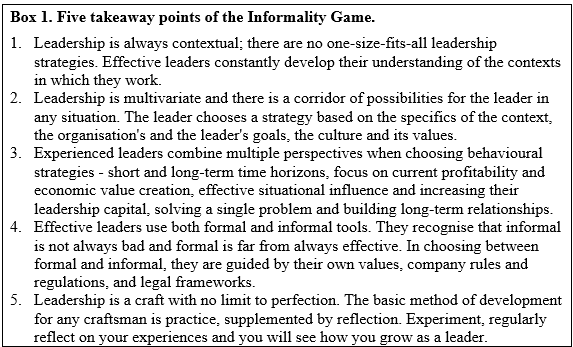
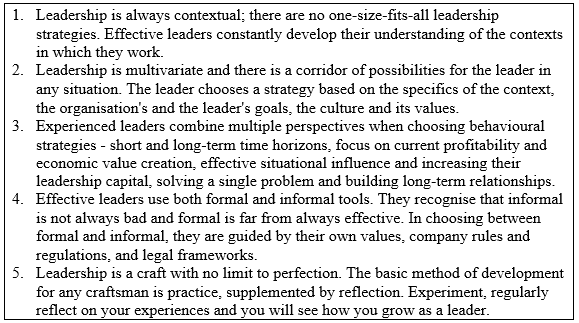
Update Articles “informality-a-shortcut”

diff --git a/articles/informality-a-shortcut.md b/articles/informality-a-shortcut.md
@@ -103,16 +103,6 @@ The immersive training for policy makers, aimed at mastering complexity and cont
 
 ![](/static/box1.png)
 
-1.     Leadership is always contextual; there are no one-size-fits-all leadership strategies. Effective leaders constantly develop their understanding of the contexts in which they work. 
-
-2.     Leadership is multivariate and there is a corridor of possibilities for the leader in any situation. The leader chooses a strategy based on the specifics of the context, the organisation's and the leader's goals, the culture and its values.
-
-3.     Experienced leaders combine multiple perspectives when choosing behavioural strategies - short and long-term time horizons, focus on current profitability and economic value creation, effective situational influence and increasing their leadership capital, solving a single problem and building long-term relationships. 
-
-4.     Effective leaders use both formal and informal tools. They recognise that informal is not always bad and formal is far from always effective. In choosing between formal and informal, they are guided by their own values, company rules and regulations, and legal frameworks.
-
-5.     Leadership is a craft with no limit to perfection. The basic method of development for any craftsman is practice, supplemented by reflection. Experiment, regularly reflect on your experiences and you will see how you grow as a leader.
-
 ## III. How would you know if you were wrong?
 
 In short, collaboration is the answer. As Giuseppe Longo, a former fellow of the IEA-Nantes has postulated, [competition is much easier, in science, than collaboration](https://discovery.ucl.ac.uk/id/eprint/1461723/1/perspectives_12_web.pdf#page=5): "It may even be based on cheating, on announcing false results, declaring non-existing experimental protocols, on stealing results, organizing networks of reciprocal, yet fake quotations. Collaboration instead is very hard: good scientists are very selective in accepting collaborators and diversity makes the dialogue difficult while producing the most relevant novelties." The Global Informality Project is a case of true collaboration, resulting in an extraordinary collection, described as a "fascinating, indeed unique and enduring collection of descriptions and analyses of informal practices from around the world". Its uniqueness lies in the collaboration of scholars who have brought together practices that have never been seen together before. The unintended consequence of the project is a truly global, cross-disciplinary and cross-regional [bibliography](https://www.in-formality.com/wiki/index.php?title=Cross-area_studies_bibliography) on informality around the world - a brilliant outcome in itself. Follow-up introductions, co-authorships, research networks and successful funding bids are also evidence of successful collaboration. Over the decade 2014-24, the editorial team has brought together a variety of perspectives from social science research, journalism, investigative reporting, media and foreign office analysis, anti-corruption activism and governance. Junior editors, trained as doctoral or post-doctoral students, have gone on to successful careers in academia and beyond. Reflecting on the management of the dataset and the collaborative methods of the Global Informality Project, I have distilled the following safeguards to verify the authenticity of our findings:
